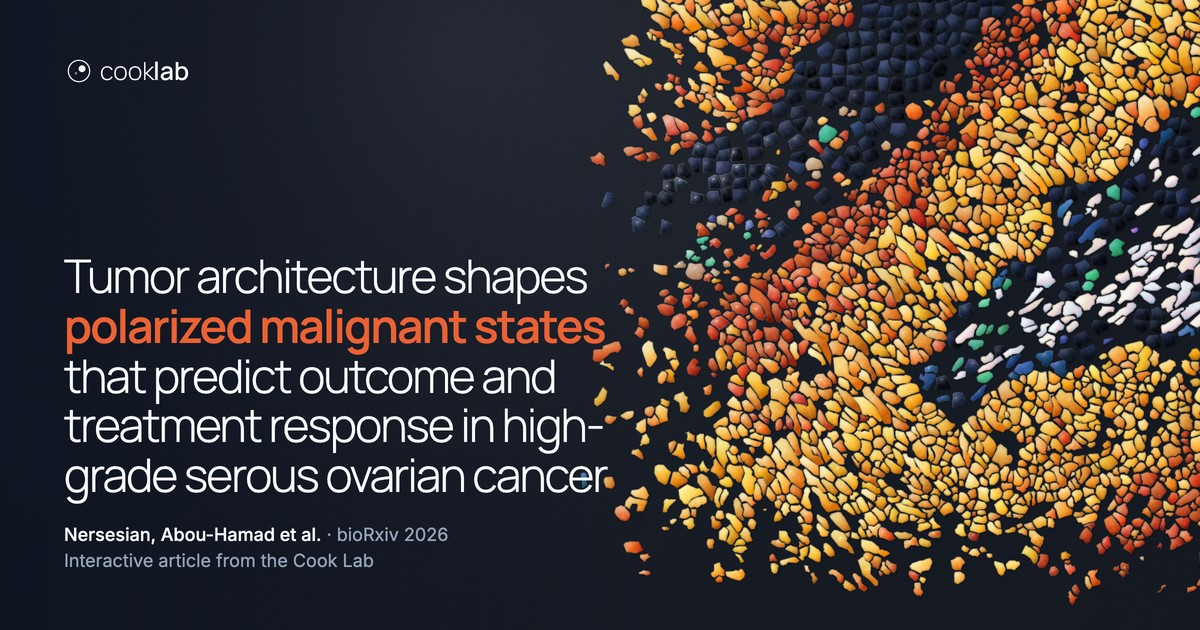
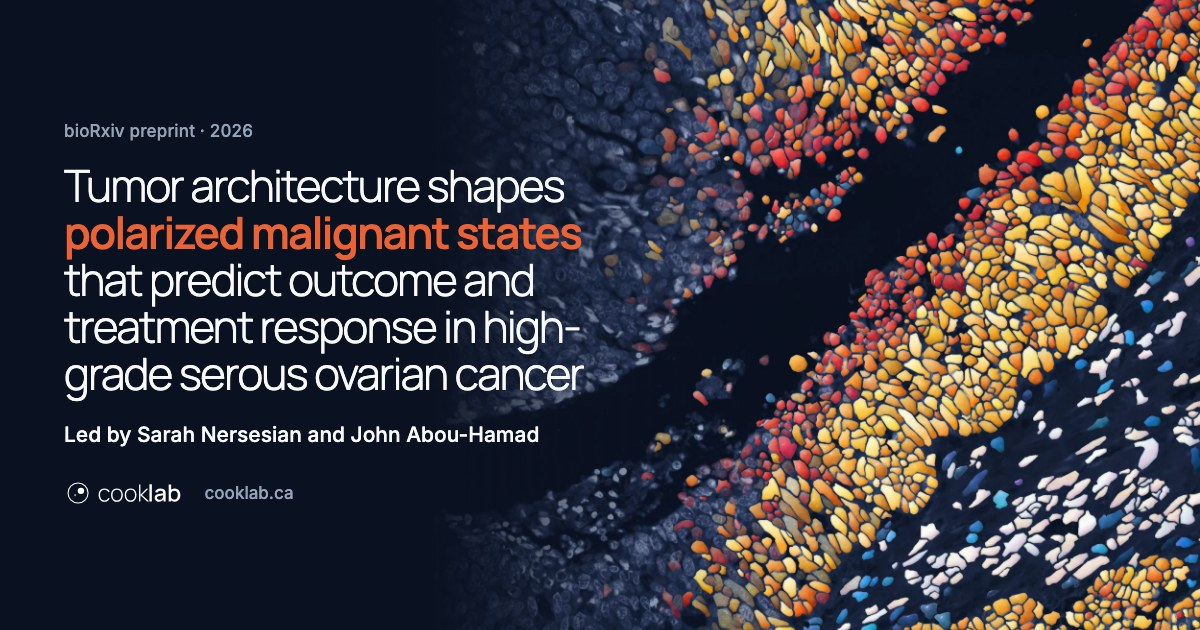
Update the malignant-states link-preview card
The share card now uses the hero artwork (WT01's stain with its cells as
tiles, no background tiles). Its og:image URL carries the version stamp,
so LinkedIn and X fetch the new image instead of a cached one.

diff --git a/public/research/ovarian-cancer/malignant-states/assets/js/article.js b/public/research/ovarian-cancer/malignant-states/assets/js/article.js
@@ -1,11 +1,11 @@
 // Full article: text from article.json, figures redrawn as panel groups beside the paragraphs that
 // cite them, citation pop-ups, cross-reference links, supplementary figures, methods, references.
-import { el, whenVisible, seg, asset, pageRoot } from './core.js?v=8d8c43bce9';
-import { chrome, authorLine, lightbox } from './chrome.js?v=8d8c43bce9';
-import { hero as heroImage } from './hero.js?v=8d8c43bce9';
-import { epiViewer, atlasViewer, tissueViewer, TISSUE_STEPS } from './viewers.js?v=8d8c43bce9';
-import { REGISTRY as P, setFigureOpener } from './panels.js?v=8d8c43bce9';
-import * as X from './panels-extra.js?v=8d8c43bce9';
+import { el, whenVisible, seg, asset, pageRoot } from './core.js?v=b5261aa92c';
+import { chrome, authorLine, lightbox } from './chrome.js?v=b5261aa92c';
+import { hero as heroImage } from './hero.js?v=b5261aa92c';
+import { epiViewer, atlasViewer, tissueViewer, TISSUE_STEPS } from './viewers.js?v=b5261aa92c';
+import { REGISTRY as P, setFigureOpener } from './panels.js?v=b5261aa92c';
+import * as X from './panels-extra.js?v=b5261aa92c';
 
 const $ = (s) => document.querySelector(s);
 

diff --git a/public/research/ovarian-cancer/malignant-states/assets/js/panels-extra.js b/public/research/ovarian-cancer/malignant-states/assets/js/panels-extra.js
@@ -1,9 +1,9 @@
 // Panels used on the full-article page only.
-import { getJSON, el, STATE, CELLTYPE, seg, chips, colorbar, row, tip, fmt, whenVisible, loadPoints, decode, asset } from './core.js?v=8d8c43bce9';
-import { catViewer } from './viewers.js?v=8d8c43bce9';
-import { PointViewer } from './gl-points.js?v=8d8c43bce9';
-import * as C from './charts.js?v=8d8c43bce9';
-import { REGISTRY as P, pstr } from './panels.js?v=8d8c43bce9';
+import { getJSON, el, STATE, CELLTYPE, seg, chips, colorbar, row, tip, fmt, whenVisible, loadPoints, decode, asset } from './core.js?v=b5261aa92c';
+import { catViewer } from './viewers.js?v=b5261aa92c';
+import { PointViewer } from './gl-points.js?v=b5261aa92c';
+import * as C from './charts.js?v=b5261aa92c';
+import { REGISTRY as P, pstr } from './panels.js?v=b5261aa92c';
 
 const d3 = window.d3;
 const data = (n) => getJSON(`data/${n}.json`);

diff --git a/public/research/ovarian-cancer/malignant-states/assets/js/overview.js b/public/research/ovarian-cancer/malignant-states/assets/js/overview.js
@@ -1,9 +1,9 @@
 // Overview page: hero mosaic, atlas and tissue viewers, scrollytelling, and the redrawn panels.
-import { whenVisible, revealOnScroll } from './core.js?v=8d8c43bce9';
-import { chrome, authorLine, lightbox } from './chrome.js?v=8d8c43bce9';
-import { hero as heroImage } from './hero.js?v=8d8c43bce9';
-import { epiViewer, atlasViewer, tissueViewer } from './viewers.js?v=8d8c43bce9';
-import { REGISTRY, setFigureOpener } from './panels.js?v=8d8c43bce9';
+import { whenVisible, revealOnScroll } from './core.js?v=b5261aa92c';
+import { chrome, authorLine, lightbox } from './chrome.js?v=b5261aa92c';
+import { hero as heroImage } from './hero.js?v=b5261aa92c';
+import { epiViewer, atlasViewer, tissueViewer } from './viewers.js?v=b5261aa92c';
+import { REGISTRY, setFigureOpener } from './panels.js?v=b5261aa92c';
 
 const $ = (s) => document.querySelector(s);
 

diff --git a/public/research/ovarian-cancer/malignant-states/assets/js/viewers.js b/public/research/ovarian-cancer/malignant-states/assets/js/viewers.js
@@ -1,6 +1,6 @@
 // Point-cloud viewers used on both pages: atlas UMAP, epithelial UMAP, tissue maps, model UMAPs.
-import { loadPoints, getJSON, decode, CELLTYPE, SHORT, STATE, MUTED12, SITE, GREY, seg, chips, colorbar, row, ramp, MAPS } from './core.js?v=8d8c43bce9';
-import { PointViewer } from './gl-points.js?v=8d8c43bce9';
+import { loadPoints, getJSON, decode, CELLTYPE, SHORT, STATE, MUTED12, SITE, GREY, seg, chips, colorbar, row, ramp, MAPS } from './core.js?v=b5261aa92c';
+import { PointViewer } from './gl-points.js?v=b5261aa92c';
 
 const catColors = (cats, map, fallback = MUTED12) => Object.fromEntries(cats.map((c, i) => [c, map[c] || fallback[i % fallback.length]]));
 function failed(host, e) { host.innerHTML = `<div class="loading">Data not available yet (${e.message.split(':')[0]}).</div>`; console.warn(e); }

diff --git a/public/research/ovarian-cancer/malignant-states/assets/js/hero.js b/public/research/ovarian-cancer/malignant-states/assets/js/hero.js
@@ -3,7 +3,7 @@
 // or focus is inside it (on touch screens, once the hero is in view): the SecA, intermediate and SecB cells first, then
 // the other cells. Only segmented cells are drawn; empty space keeps the stain. Leaving the hero fades them out.
 // The same sprite fade as the lab homepage's question cards (cooklab QuestionTiles.astro).
-import { getJSON, reduced, asset } from './core.js?v=8d8c43bce9';
+import { getJSON, reduced, asset } from './core.js?v=b5261aa92c';
 
 // when each group starts to appear, as a share of the fade; each tile takes WIN to fade in
 const STARTS = [[0, 0.45], [0.25, 0.68]];

diff --git a/public/research/ovarian-cancer/malignant-states/assets/js/core.js b/public/research/ovarian-cancer/malignant-states/assets/js/core.js
@@ -57,7 +57,7 @@ export const rgbCss = (a) => `rgb(${a[0]},${a[1]},${a[2]})`;
 export const ROOT = window.MS_ROOT || '';
 // Version of the site's files, written by build/stamp.py. It is added to every script, stylesheet and data URL, so a
 // browser never runs an updated page against files it cached before the update.
-export const V = '8d8c43bce9';
+export const V = 'b5261aa92c';
 // a site file's URL: under ROOT, with the version stamp
 export const asset = (url) => `${/^([a-z]+:)?\/\//.test(url) || url.startsWith('/') ? url : ROOT + url}${url.includes('?') ? '&' : '?'}v=${V}`;
 const cache = new Map();

diff --git a/public/research/ovarian-cancer/malignant-states/assets/js/panels.js b/public/research/ovarian-cancer/malignant-states/assets/js/panels.js
@@ -1,7 +1,7 @@
 // Figure panels, redrawn for the web from the exported study data. Each builder takes a container
 // and renders one panel; a missing or mismatched data file shows a placeholder with the journal figure.
-import { getJSON, STATE, ARM, CELLTYPE, row, tip, fmt, el, seg, reduced, asset } from './core.js?v=8d8c43bce9';
-import * as C from './charts.js?v=8d8c43bce9';
+import { getJSON, STATE, ARM, CELLTYPE, row, tip, fmt, el, seg, reduced, asset } from './core.js?v=b5261aa92c';
+import * as C from './charts.js?v=b5261aa92c';
 
 const d3 = window.d3;
 let openFigure = () => {};

diff --git a/public/research/ovarian-cancer/malignant-states/assets/js/mosaic.js b/public/research/ovarian-cancer/malignant-states/assets/js/mosaic.js
@@ -2,7 +2,7 @@
 // Ported from the lab's renderer (~/Desktop/Mosaic video/glass/index.html). Tiles fade in by
 // epithelial state (SecA, intermediate, SecB, then the rest); afterwards a few tiles at a time
 // catch the light. Static under prefers-reduced-motion; paused off screen.
-import { reduced } from './core.js?v=8d8c43bce9';
+import { reduced } from './core.js?v=b5261aa92c';
 
 const clamp = (x, a = 0, b = 1) => Math.max(a, Math.min(b, x));
 function rng(seed) { let s = seed >>> 0; return () => ((s = (s * 1664525 + 1013904223) >>> 0) / 4294967296); }

diff --git a/public/research/ovarian-cancer/malignant-states/assets/js/chrome.js b/public/research/ovarian-cancer/malignant-states/assets/js/chrome.js
@@ -1,5 +1,5 @@
 // Page chrome shared by the overview and the article: links, nav, authors, citation, footer, lightbox.
-import { getJSON, el, navSolidOnScroll, asset } from './core.js?v=8d8c43bce9';
+import { getJSON, el, navSolidOnScroll, asset } from './core.js?v=b5261aa92c';
 
 export async function chrome({ solidAfter } = {}) {
   const [meta, art] = await Promise.all([getJSON('data/meta.json'), getJSON('data/article.json')]);

diff --git a/public/research/ovarian-cancer/malignant-states/assets/js/gl-points.js b/public/research/ovarian-cancer/malignant-states/assets/js/gl-points.js
@@ -1,6 +1,6 @@
 // WebGL2 point viewer for embeddings and tissue maps: pan, zoom, hover, colour transitions,
 // and real cell outlines drawn over the points at high zoom.
-import { ramp, MAPS, GREY, tip, reduced, asset } from './core.js?v=8d8c43bce9';
+import { ramp, MAPS, GREY, tip, reduced, asset } from './core.js?v=b5261aa92c';
 
 const VS = `#version 300 es
 in vec2 a_pos; in vec4 a_colA; in vec4 a_colB;

diff --git a/public/research/ovarian-cancer/malignant-states/assets/js/charts.js b/public/research/ovarian-cancer/malignant-states/assets/js/charts.js
@@ -1,6 +1,6 @@
 // Chart kit for the web article (D3 v7, loaded as a global). Each chart renders into a container,
 // redraws when the container is resized, and carries a hover layer.
-import { tip, row, fmt } from './core.js?v=8d8c43bce9';
+import { tip, row, fmt } from './core.js?v=b5261aa92c';
 
 const d3 = window.d3;
 const T = () => tip();
